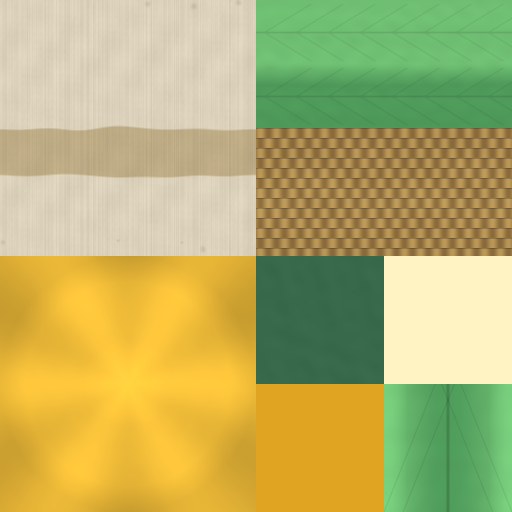
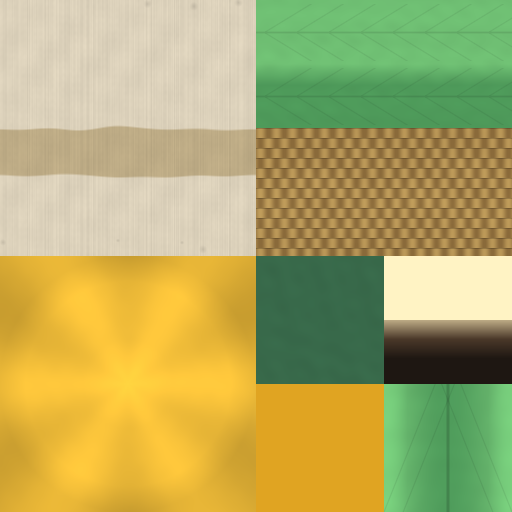
feat(eggs): the machine's mouth uploaded and bound (model 121918716759907, atlas 108872057746008)
Spencer: "shouldn't it have a hole or something for the egg to come out
of". The Body now has a real recessed mouth (cut, dark cavity, tan lip)
at the client's hole; the atlas carries the cavity's dark swatch. Read
back, confirmed (mouth: true), check PASS; the client stops drawing its
own disc. Offline 112 PASS.

Changed region(s): [[0.75, 0.625, 1.0, 0.75]]

diff --git a/scripts/egg_machine_assets.py b/scripts/egg_machine_assets.py
@@ -36,11 +36,11 @@ FBX, MANIFEST, READBACK = DIR / "egg-machine.fbx", DIR / "egg-machine-manifest.j
 XML_OUT = ROOT / "assets" / "world" / "EggMachine.rbxmx"
 LUA_OUT = ROOT / "src" / "shared" / "EggMachineData.lua"
 ID = re.compile(r"^rbxassetid://([1-9][0-9]{0,19})$")
-TEXTURE = "rbxassetid://119526952958289"   # egg-machine.png (Fable Studio R1)
+TEXTURE = "rbxassetid://108872057746008"   # egg-machine.png (beta 36: the mouth swatch; R1 was 119526952958289)
 # The sha256 of the egg-machine.png TEXTURE holds. The mouth (after beta 36) drew a MOUTH swatch into the atlas (the
 # cavity's dark: the Body's SurfaceAppearance drops vertex colours), so a Body with the mouth needs the new atlas too:
 # upload egg-machine.png, set TEXTURE to its id and this to its digest. Until then generate() refuses.
[2 lines of base64/hex data omitted]
 PNG = DIR / "egg-machine.png"
 ROUGH_60 = "rbxassetid://78518887759939"   # egg-machine-rough60.png (.6, collar .8)
 METAL_0 = "rbxassetid://114363080604088"   # the island's flat no-metal map (build_world_v7_assets MATTE_METALNESS)
